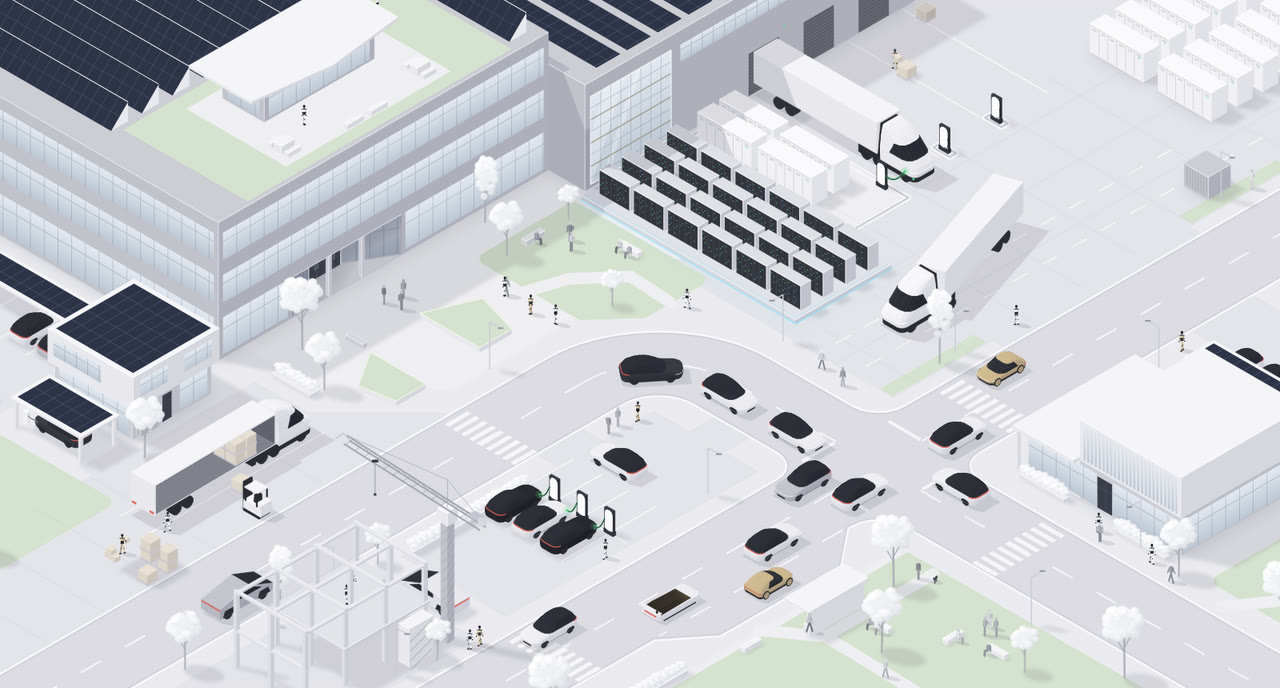
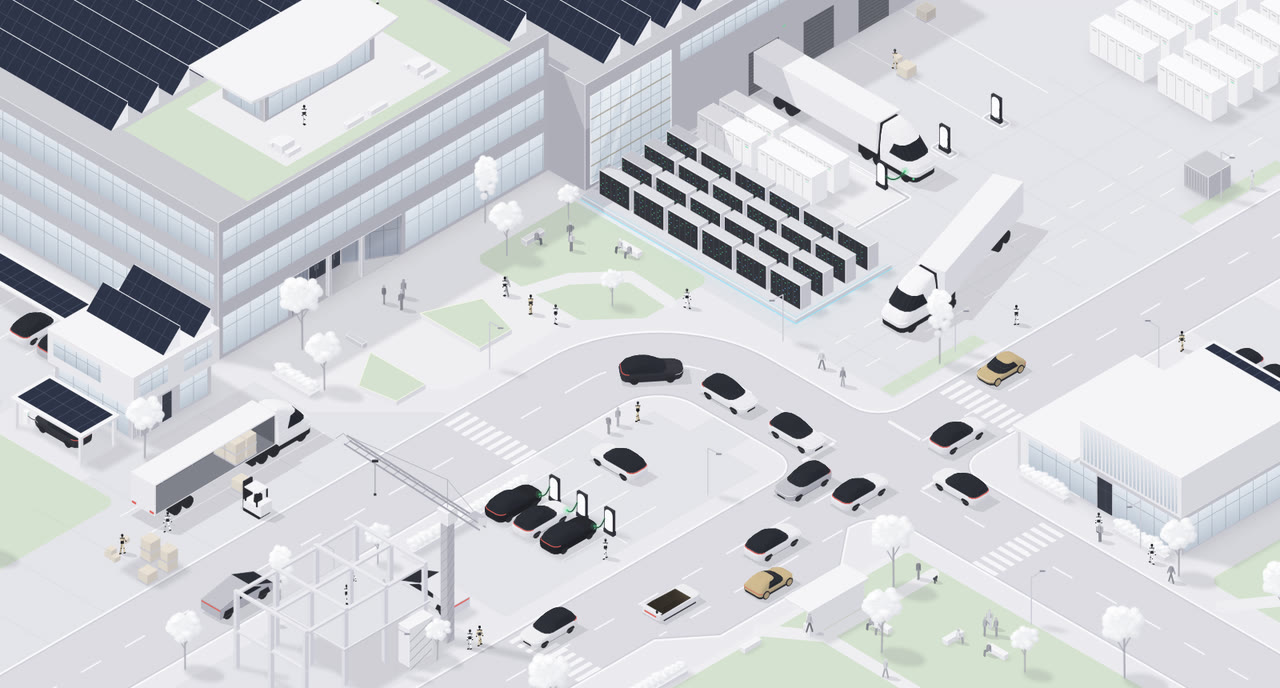
Tilt the solar panels on every building roof
Solar: the dock wing's roof, the factory wing's out west and the house's on
the corner now carry their solar panels in rows tilted at 45°, like the
factory's, instead of flat on the roof (solarRows). The thin solar canopies
over the car parks and the house's carport stay flat, as real ones are.

Docs: docs/engine.md and the README say every building roof's panels are
tilted. README previews re-recorded.

Checks: typecheck, tests, check:components and the build pass. check:sim:
OK.

Claude-Session: https://claude.ai/code/session_012ySDiovrfsgi18gJzxxVM6

Changed region(s): [[0.0312, 0.3663, 0.1875, 0.5494], [0.4062, 0.0, 0.5625, 0.0916]]

diff --git a/src/engine/world/buildings.ts b/src/engine/world/buildings.ts
@@ -72,7 +72,6 @@ export function factory(env: Env, edge: string, yard: TruckYard, branding: Brand
       });
       windowsX(r, pal, 30, 0, 36, 10, [{ top: 1.4, bot: 3.0, every: 1.2, spans: [[10.4, 35.6]] }]);
       atrium(r, pal, 30, 0, 36, 10, 0.6, 9.4, 1.4, 9.7);
-      solarRoof(r, pal, -30, 0, 30, 36, 10, 1.0, 2.6);
     }).live((r) => {
       // a lamp beside each dock: green while a trailer is loading (or charging, at the bay), amber while one is coming
       // or going, off when free
@@ -90,6 +89,8 @@ export function factory(env: Env, edge: string, yard: TruckYard, branding: Brand
       });
     }),
   );
+  // the dock wing's solar panels, in rows tilted at 45°
+  S.push(...solarRows(pal, { x0: -30, y0: 0, x1: 30, y1: 36, z: 10, inset: 1.0 }));
   // a charger beside every spot a semi parks, each on a kerbed island just outside the semis' sweep (measured: the
   // gap beside the second dock is the tightest), and the battery bank that feeds them where the fourth dock used to
   // be. The kerbs are drawn with the ground (CHARGER_ISLANDS).
@@ -174,8 +175,9 @@ export function buildings(env: Env, edge: string) {
     new BoxItem(20, 75.2, 3.2, 29.3, 84.6, 6.3, pal.white, { edge }, (r) => {
       windowsY(r, pal, 20, 29.3, 84.6, 6.3, [{ top: 0.65, bot: 2.25, every: 1.25, spans: [[0.6, 5.8]] }]);
       windowsX(r, pal, 29.3, 75.2, 84.6, 6.3, [{ top: 0.65, bot: 2.25, every: 1.25, spans: [[0.8, 3.8], [5.6, 8.6]] }]);
-      solarRoof(r, pal, 20, 75.2, 29.3, 84.6, 6.3, 0.45);
     }),
+    // its solar panels, in rows tilted at 45°
+    ...solarRows(pal, { x0: 20, y0: 75.2, x1: 29.3, y1: 84.6, z: 6.3, inset: 0.45 }),
   );
   // home batteries on the wall facing the bay
   for (const y of [81.6, 82.75]) {

diff --git a/src/engine/world/outskirts.ts b/src/engine/world/outskirts.ts
@@ -13,6 +13,7 @@ import { solarRoof, windowsX, windowsY, type Band, type LitFace } from '../detai
 import { groundPoly, groundRect, lineW } from '../ground';
 import type { Ctx } from '../draw';
 import { BoxItem, TreeItem } from '../statics';
+import { solarRows } from './solarRows';
 import type { Sprites } from '../sprites';
 import { StallLot, type Stall } from '../activities/stallLot';
 import { sameKind, type Zone } from '../traffic/zone';
@@ -60,8 +61,9 @@ export function buildOutskirts(env: Env, sprites: Sprites, edge: string): Outski
     new BoxItem(-40, 72, 0, -6, 100, 9.5, pal.factory, { edge }, (r) => {
       windowsX(r, pal, -6, 72, 100, 9.5, wingBands);
       windowsY(r, pal, -40, -6, 100, 9.5, wingBands);
-      solarRoof(r, pal, -40, 72, -6, 100, 9.5, 1.0, 2.6);
     }),
+    // its solar panels, in rows tilted at 45°
+    ...solarRows(pal, { x0: -40, y0: 72, x1: -6, y1: 100, z: 9.5, inset: 1.0 }),
   );
 
   // ----------------------------------------------------------------------------------------------- staff car park

diff --git a/docs/engine.md b/docs/engine.md
@@ -37,14 +37,14 @@ Every file stays under 300 lines; split by responsibility when one grows past th
   moving a call changes the scene): `roads.ts` zones and through traffic, `buildings.ts` the factory (with
   `plaza.ts`, its front: the roof terrace over the entrance, spanning 80% of the factory's front, with a green roof,
   tables and benches, two Optimus robots walking about (on a random stream of their own) and a glass pavilion under
-  a pale pointed roof plate, and the plaza's LED-edged planters, `solarRows.ts`, its solar panels in rows tilted at
-  45° that stop short of the terrace, and `lettering.ts`, its opt-in lettering), dock wing, pavilion, home and
-  construction site, `streetLife.ts` trees, lamps, benches, the pocket park and people standing about, `walkways.ts`
-  the walkway graph, `groundPlan.ts` the cached ground layer, `chargers.ts` the yard's chargers (posts and glowing
-  cable in `../charging.ts`), `entrance.ts` the factory's main entrance (a V-shaped recess drawn as part of the face
-  it is cut into, clipped to the opening so it needs no sort item, and the pillars in its mouth), `outskirts.ts`
-  what lies beyond the classic frame for wide views (factory wing, staff car park, second compute platform, Megapack
-  field, charging hub, staff park).
+  a pale pointed roof plate, and the plaza's LED-edged planters, `solarRows.ts`, the solar panels on every building
+  roof in rows tilted at 45°, stopping short of the terrace on the factory's, and `lettering.ts`, its opt-in
+  lettering), dock wing, pavilion, home and construction site, `streetLife.ts` trees, lamps, benches, the pocket
+  park and people standing about, `walkways.ts` the walkway graph, `groundPlan.ts` the cached ground layer,
+  `chargers.ts` the yard's chargers (posts and glowing cable in `../charging.ts`), `entrance.ts` the factory's main
+  entrance (a V-shaped recess drawn as part of the face it is cut into, clipped to the opening so it needs no sort
+  item, and the pillars in its mouth), `outskirts.ts` what lies beyond the classic frame for wide views (factory
+  wing, staff car park, second compute platform, Megapack field, charging hub, staff park).
 - `blocks.ts` builders used in both: `rackPlatform` (server racks with the glowing edge) and `megapacks`;
   `details.ts` windows, glass, solar roofs.
 - `activities/` the scripted scenes, one per file (truck yard, loading bay, charging lot, robotaxi stop, crane, dog

diff --git a/README.md b/README.md
@@ -68,8 +68,8 @@ any other React setup.
   a dark door at the tip, with two pillars in the mouth. Staff and robots come and go through it. On the roof over
   the entrance, a terrace: a green roof round paving with tables and benches where two Optimus robots walk about,
   and a glass pavilion under a big pale roof plate that comes to a shallow point towards the front; across the rest
-  of the roof the solar panels stand in rows tilted at 45°. Two angular planters on the plaza have LED strips that
-  glow warm at night.
+  of the roof, and on every other building's, the solar panels stand in rows tilted at 45°. Two angular planters on
+  the plaza have LED strips that glow warm at night.
 - **Parks for the staff**: a pocket park on the corner by the plaza, a lawn beside the robotaxi stop and a bigger park
   east of the pavilion, with grass, paths, trees and benches where employees sit or stand together on their break.
 - **The roadster**: every 30 to 45 seconds a low roadster with gold-tinted glass comes along the avenue and hops. Four
